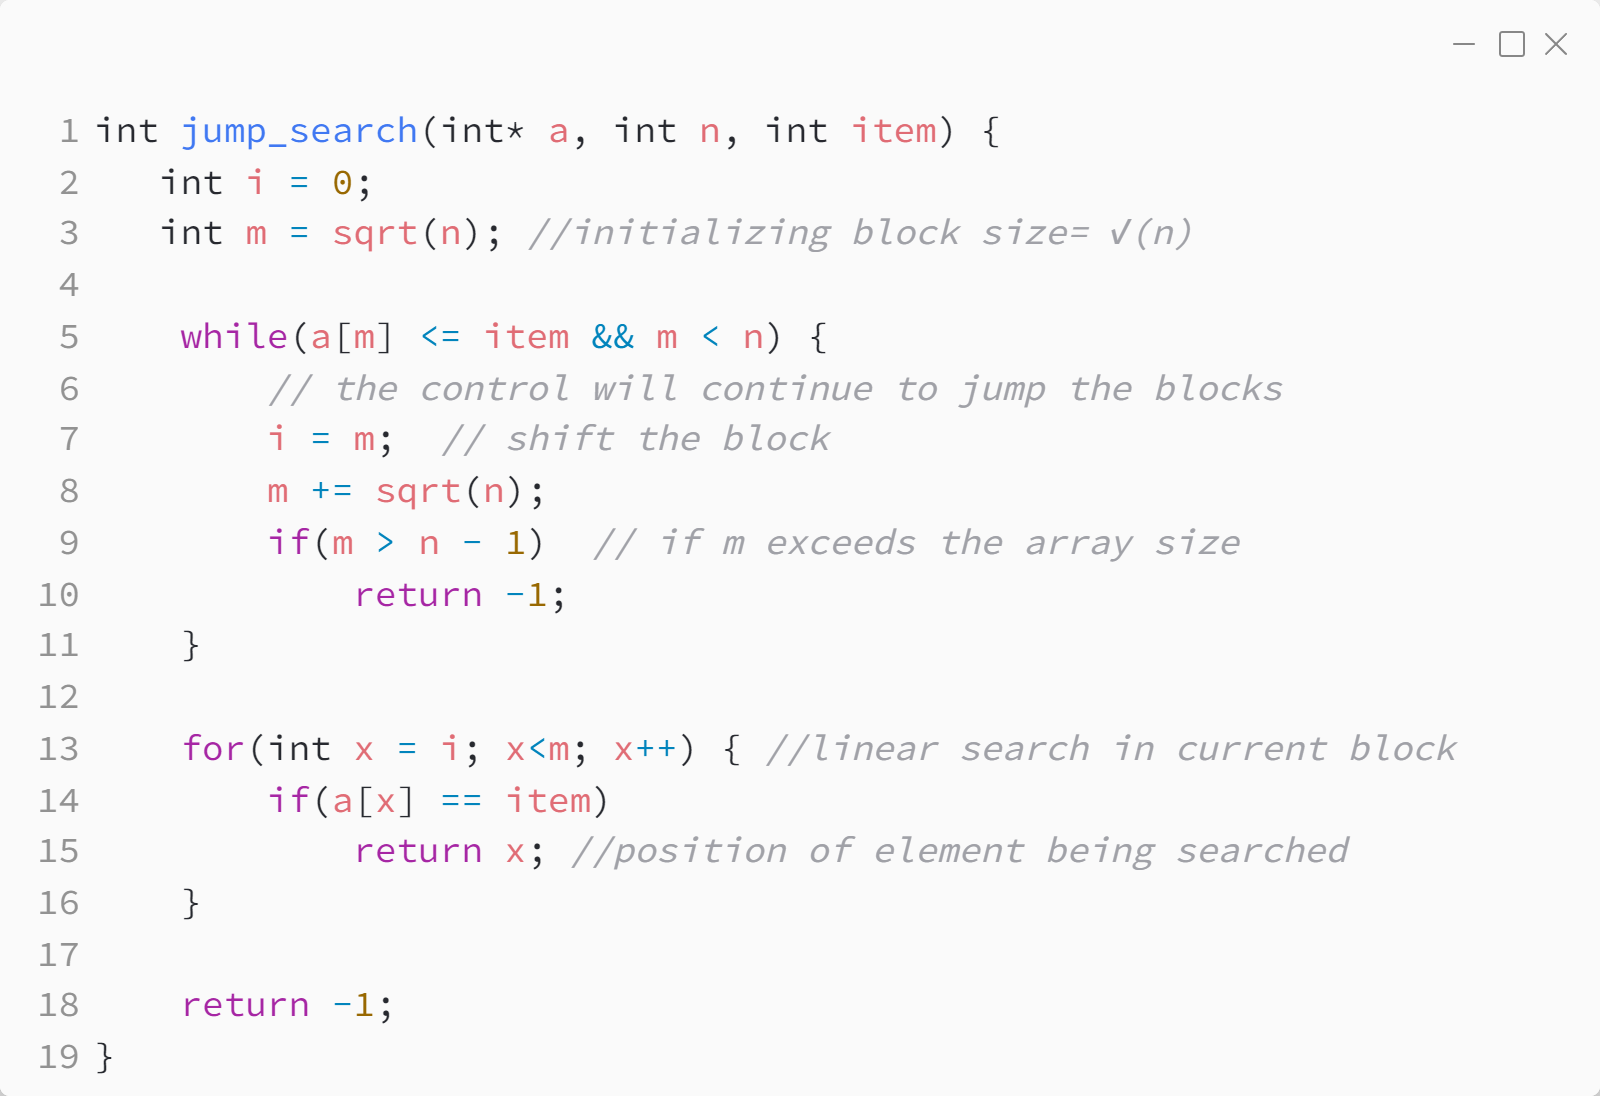
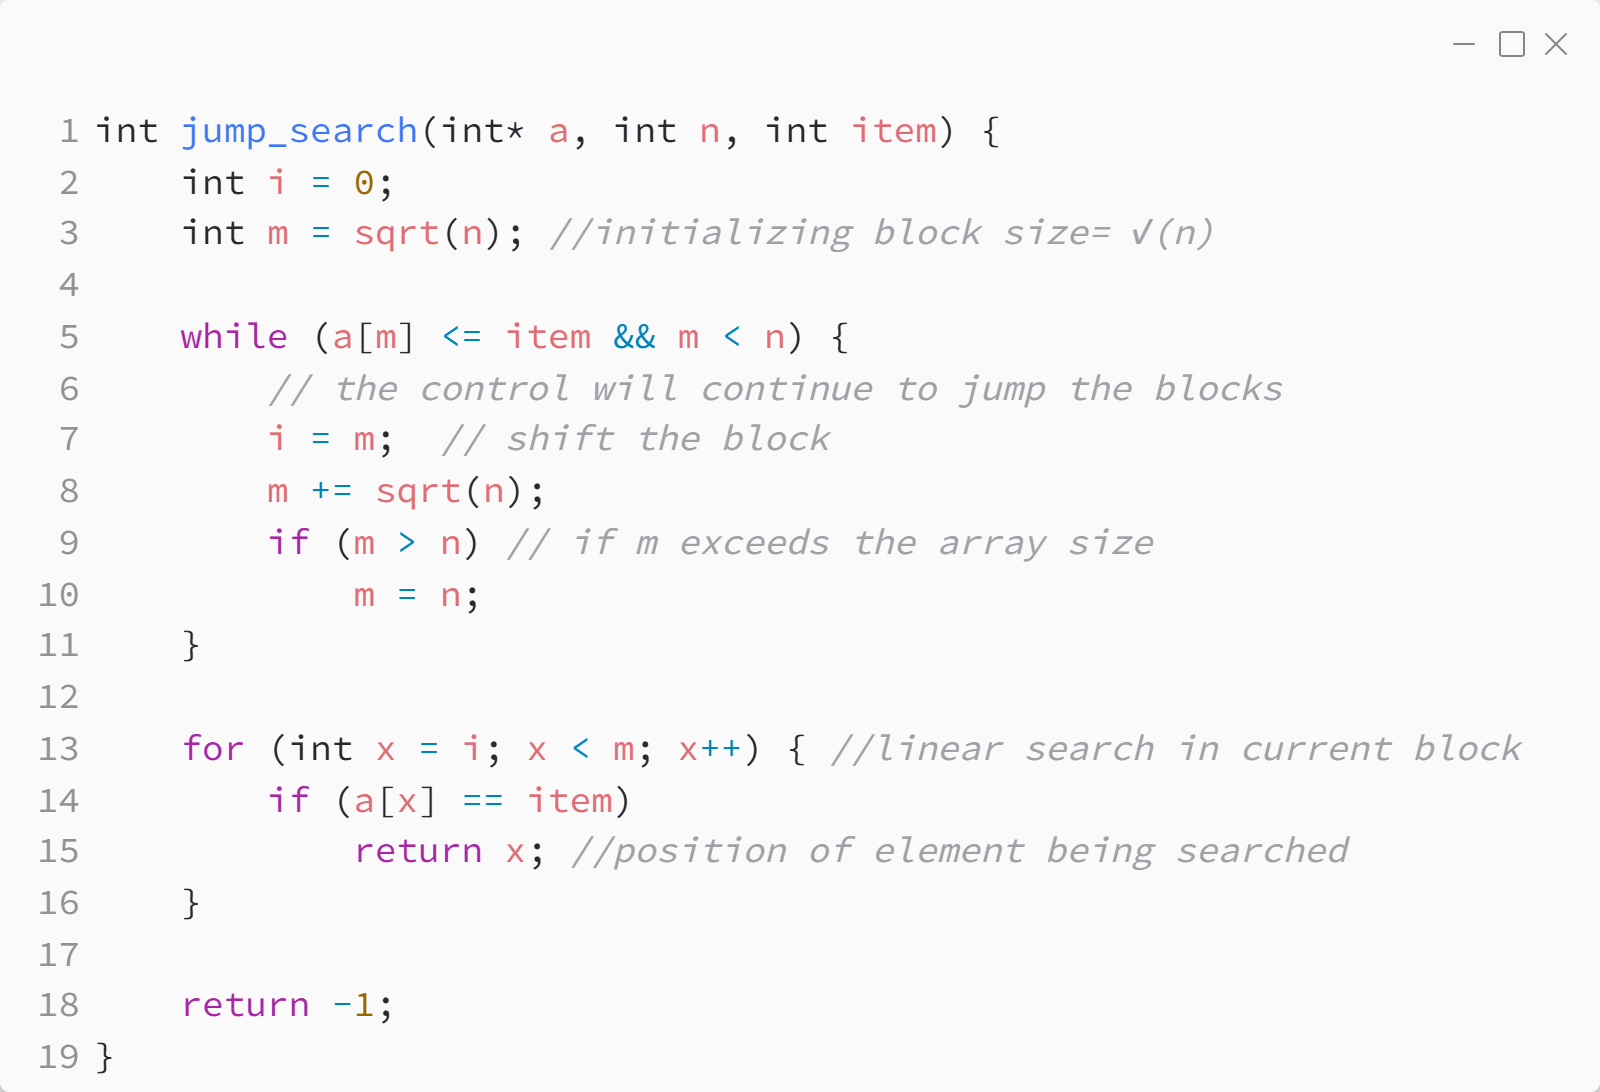
Jump_search fix

diff --git a/4_search/practice/src/jump_search.c b/4_search/practice/src/jump_search.c
@@ -1,22 +1,22 @@
-#include <stdio.h>
+#include <stdio.h>
 #include <math.h>
 
 #define ARR_SIZE 1000
 
 int jump_search(int* a, int n, int item) {
-   int i = 0;
-   int m = sqrt(n); //initializing block size= √(n)
+    int i = 0;
+    int m = sqrt(n); //initializing block size= √(n)
 
-    while(a[m] <= item && m < n) {
+    while (a[m] <= item && m < n) {
         // the control will continue to jump the blocks
         i = m;  // shift the block
         m += sqrt(n);
-        if(m > n - 1)  // if m exceeds the array size
-            return -1;
+        if (m > n) // if m exceeds the array size
+            m = n;
     }
 
-    for(int x = i; x<m; x++) { //linear search in current block
-        if(a[x] == item)
+    for (int x = i; x < m; x++) { //linear search in current block
+        if (a[x] == item)
             return x; //position of element being searched
     }
 
@@ -31,7 +31,7 @@ int main() {
         arr[i] = i;
     }
 
-    int element = 831;
+    int element = 999;
     int index = jump_search(arr, ARR_SIZE, element);
 
     printf("Found element %d at index %d\n", element, index);
